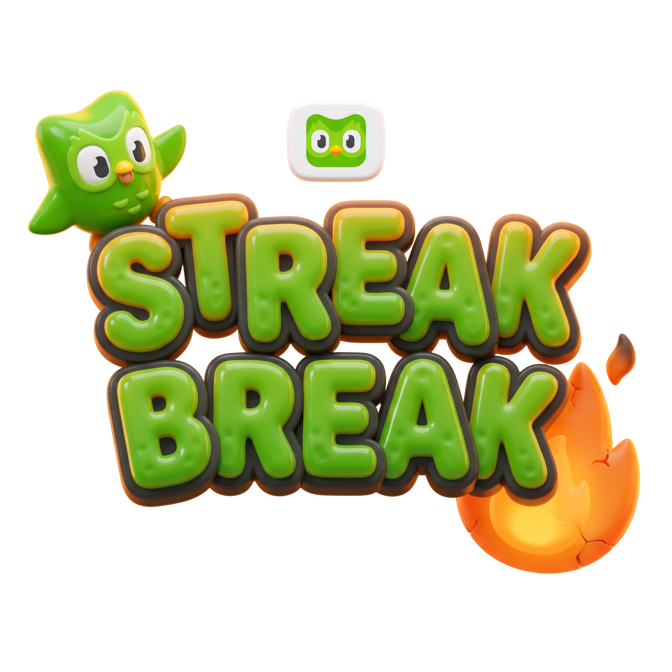
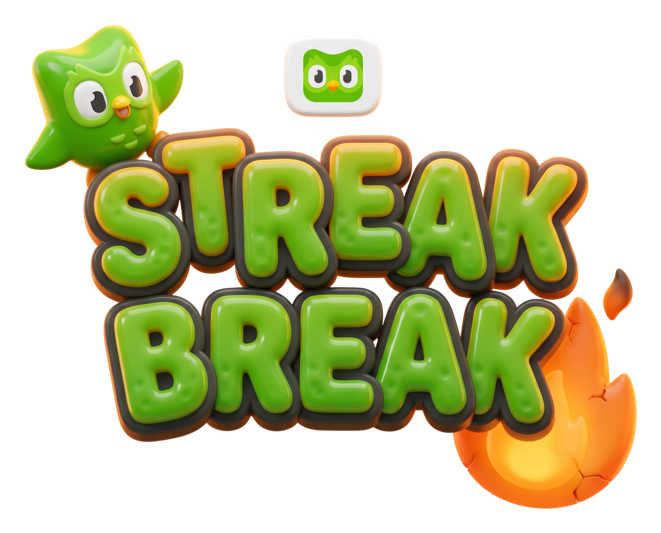
cards: white treatments designed per element, not inverted; hero art
The blanket color:ink rule was inversion, not design — it flattened the
popovers' three-step text hierarchy into one tone and left their dark-glass
surfaces (set INLINE by glassPanel) untouched, so panels opened as ghosts.
Replaced with a curated mapping: each dark-mode text tier maps to its ink
equivalent (white->ink, white/60->grey-2, white/45->grey-3), translucent-white
sub-surfaces become wash+hairline, the caret diamond joins the panel surface,
and the panel surface itself gets paper + a real drop. Orange streak accents
already read on white and stay untouched.

The fake macOS title bar's dark fill becomes a whisper of shell; the credits
pill goes paper. The map's pin-to-card leader line (z-[29] svg) is hidden —
it belongs to the city, not the deck.

Header: the journey text and focus title are gone — the cards carry the
story. The wordmark alone remains, aligned to the streak/XP pills' centreline
(measured at runtime, re-measured after the canvas transform settles, since
the first pass can land ~13px high).

Art at hero size: full content width x 300, and every PNG is now
alpha-trimmed (PIL bbox + 4% breathing room) before the 960px resample —
untrimmed sources carried baked-in margins that made 'bigger box' render as
'same art, more padding'. Airbnb switched to the TRANSPARENT gen-1 Cancel
Crisis: the 'final' file has a baked black background (0% transparent pixels
vs 63%), chosen by measuring, not by filename.

diff --git a/src/cards.js b/src/cards.js
@@ -349,11 +349,61 @@
         'html[data-nx-home="cards"] [aria-label*="day streak"] [class*="bg-[rgba(0,0,0"]{' +
         'background:transparent !important;backdrop-filter:none !important;' +
         '-webkit-backdrop-filter:none !important;border-color:' + C.line + ' !important}',
-      'html[data-nx-home="cards"] [aria-label^="Level "] *,' +
-        'html[data-nx-home="cards"] [aria-label*="day streak"] *{color:' + C.tx + ' !important}',
+      /* The popovers were designed against dark glass with a THREE-step text
+         hierarchy (white / white-60 / white-45) and translucent-white
+         sub-surfaces. A blanket color:ink flattened all of it — inversion,
+         not design. Map each tier to its ink equivalent so the hierarchy
+         survives the flip; the orange streak accents already read on white
+         and stay untouched. */
+      'html[data-nx-home="cards"] [aria-label^="Level "] [class*="text-white"],' +
+        'html[data-nx-home="cards"] [aria-label*="day streak"] [class*="text-white"]' +
+        '{color:' + C.tx + ' !important}',
+      'html[data-nx-home="cards"] [aria-label^="Level "] [class*="text-white/7"],' +
+        'html[data-nx-home="cards"] [aria-label^="Level "] [class*="text-white/6"],' +
+        'html[data-nx-home="cards"] [aria-label*="day streak"] [class*="text-white/7"],' +
+        'html[data-nx-home="cards"] [aria-label*="day streak"] [class*="text-white/6"]' +
+        '{color:' + C.tx2 + ' !important}',
+      'html[data-nx-home="cards"] [aria-label^="Level "] [class*="text-white/5"],' +
+        'html[data-nx-home="cards"] [aria-label^="Level "] [class*="text-white/4"],' +
+        'html[data-nx-home="cards"] [aria-label^="Level "] [class*="text-white/3"],' +
+        'html[data-nx-home="cards"] [aria-label*="day streak"] [class*="text-white/5"],' +
+        'html[data-nx-home="cards"] [aria-label*="day streak"] [class*="text-white/4"],' +
+        'html[data-nx-home="cards"] [aria-label*="day streak"] [class*="text-white/3"]' +
+        '{color:' + C.tx3 + ' !important}',
+      // translucent-white sub-surfaces (day cells, milestone chips) vanish on
+      // white — wash + hairline instead
+      'html[data-nx-home="cards"] [aria-label^="Level "] [class*="bg-white/"],' +
+        'html[data-nx-home="cards"] [aria-label*="day streak"] [class*="bg-white/"],' +
+        'html[data-nx-home="cards"] [aria-label^="Level "] [class*="bg-[rgba(255,255,255"],' +
+        'html[data-nx-home="cards"] [aria-label*="day streak"] [class*="bg-[rgba(255,255,255"]' +
+        '{background:' + C.wash + ' !important;border-color:' + C.line + ' !important}',
+      /* The panel SURFACE carries its dark glass as an INLINE style
+         (glassPanel.ts), which class-mapped rules never reach — so the panel
+         was opening as a ghost: transparent surface, faint text. The popover
+         hangs off a `top-full` positioning wrapper inside each pill; its first
+         child is the surface. Paper, hairline, a real drop. */
+      'html[data-nx-home="cards"] [aria-label^="Level "] [class*="top-full"] > div,' +
+        'html[data-nx-home="cards"] [aria-label*="day streak"] [class*="top-full"] > div' +
+        '{background:' + C.card + ' !important;' +
+        'border:1px solid ' + C.line + ' !important;' +
+        'box-shadow:0 24px 60px -24px rgba(13,13,13,0.28) !important;' +
+        'backdrop-filter:none !important;-webkit-backdrop-filter:none !important}',
+      // the caret diamond joins the panel surface
+      'html[data-nx-home="cards"] [aria-label^="Level "] [class*="rotate-45"],' +
+        'html[data-nx-home="cards"] [aria-label*="day streak"] [class*="rotate-45"]' +
+        '{background:' + C.card + ' !important;border:1px solid ' + C.line + ' !important}',
       // the portfolio ring's empty track needs to be visible on paper
       'html[data-nx-home="cards"] #nx-portfolio-dock circle[stroke="rgba(255,255,255,0.16)"]{' +
         'stroke:rgba(13,13,13,.14) !important}',
+      // the fake macOS title bar: the dark fill is a CHILD of the transparent
+      // z-[90] wrapper — on paper it becomes a whisper of shell, not a slab
+      'html[data-nx-home="cards"] div[class*="z-[90]"] > div' +
+        '{background:rgba(13,13,13,0.04) !important}',
+      'html[data-nx-home="cards"] div[class*="z-[90]"] button' +
+        '{background:' + C.card + ' !important;box-shadow:0 0 0 1px ' + C.line + ' !important}',
+      'html[data-nx-home="cards"] div[class*="z-[90]"] button *{color:' + C.tx + ' !important}',
+      // the map pin-to-card leader line belongs to the city, not the deck
+      'html[data-nx-home="cards"] svg[class*="z-[29]"]{display:none !important}',
       // the debug panel keeps its dark treatment — it is not part of the design
     ].join('\n');
     document.head.appendChild(css);
@@ -392,27 +442,37 @@
         'linear-gradient(180deg,#FAFAF9 0%,#F3F8F3 45%,#DDF0E5 74%,#C3E4E7 100%)',
     });
 
-    /* header — same position as before; the deck grew, the chrome did not */
+    /* No header block any more: the journey text and focus title are gone —
+       the cards carry the story. Only the wordmark remains, aligned to the
+       streak/XP pills' centreline so the top reads as ONE row. Measured at
+       runtime: the pills live in the scaled canvas, this layer does not. */
     var appMark = document.querySelector('img[alt="Zero"]');
-    var head = styleEl(document.createElement('div'), {
-      padding: '40px 64px 0', display: 'flex', flexDirection: 'column', gap: '5px', flex: '0 0 auto',
-    });
     if (appMark) {
       var mark = styleEl(document.createElement('img'), {
-        height: '28px', width: 'auto', display: 'block', alignSelf: 'flex-start',
-        filter: 'invert(1)', opacity: '.92', marginBottom: '18px',
+        position: 'absolute',
+        left: '64px',
+        top: '78px',
+        height: '28px',
+        width: 'auto',
+        filter: 'invert(1)',
+        opacity: '.92',
+        zIndex: '3',
       });
       mark.src = appMark.getAttribute('src');
       mark.alt = 'Zero';
-      head.appendChild(mark);
+      layer.appendChild(mark);
+      // measure twice: once now, once after the canvas transform settles —
+      // the first pass can catch the pills mid-layout and land ~13px high
+      var alignMark = function () {
+        var pills = document.querySelector('[aria-label*="day streak"]');
+        if (!pills) return;
+        var y = pills.getBoundingClientRect();
+        if (y.height > 0) mark.style.top = Math.round(y.top + y.height / 2 - 14) + 'px';
+      };
+      requestAnimationFrame(alignMark);
+      setTimeout(alignMark, 600);
+      addEventListener('resize', alignMark);
     }
-    head.innerHTML +=
-      '<span style="font:500 12px/1 ' + MONO + ';letter-spacing:.12em;text-transform:uppercase;color:' +
-      C.tx3 + ";font-feature-settings:'lnum' 1,'tnum' 1\">Your journey · " +
-      String(doneN + 1).padStart(2, '0') + ' / ' + String(totalJourney).padStart(2, '0') + '</span>' +
-      '<h1 style="font:400 34px/1 ' + SERIF + ';letter-spacing:-.02em;color:' + C.tx + ';margin:0">' +
-      window.__NX_ROADMAP.journeyTitle + '</h1>';
-    layer.appendChild(head);
 
     var scroller = styleEl(document.createElement('div'), {
       flex: '1 1 auto', display: 'flex', alignItems: 'center', gap: '44px',
